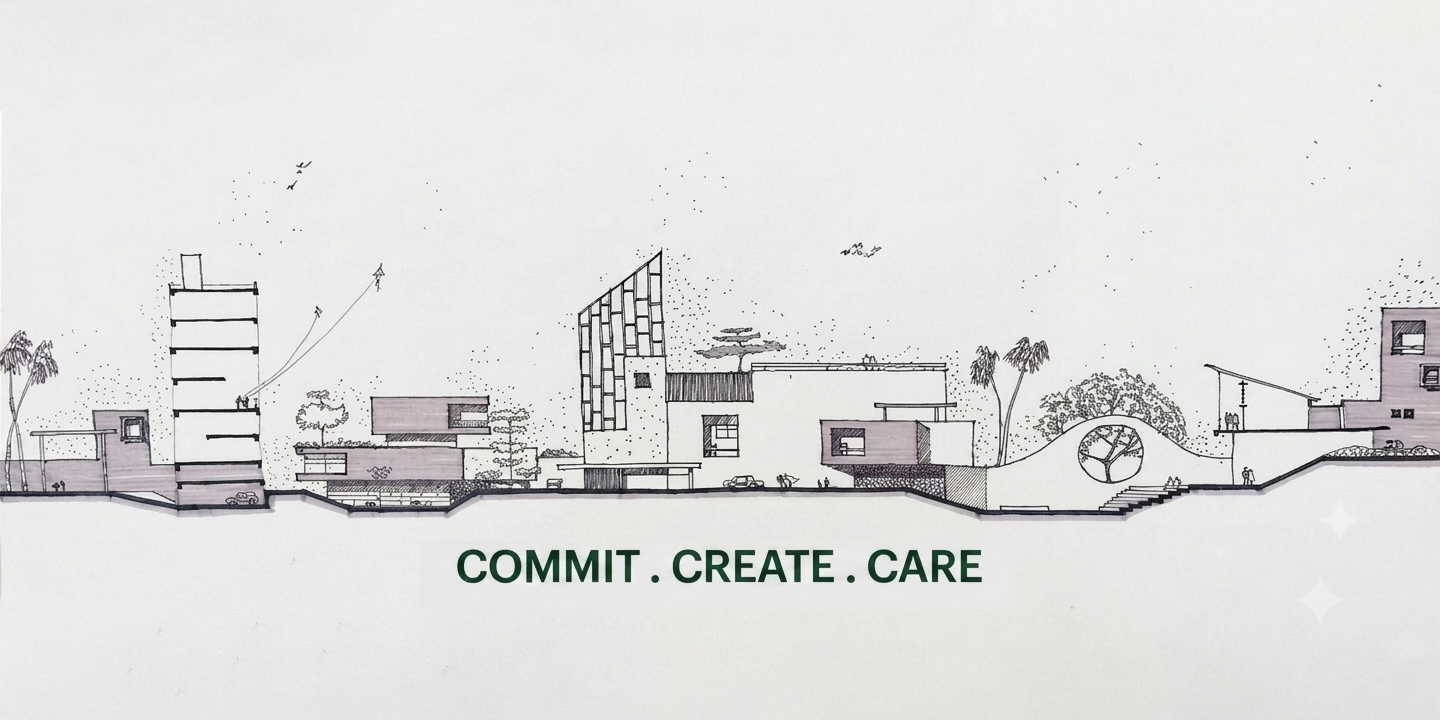
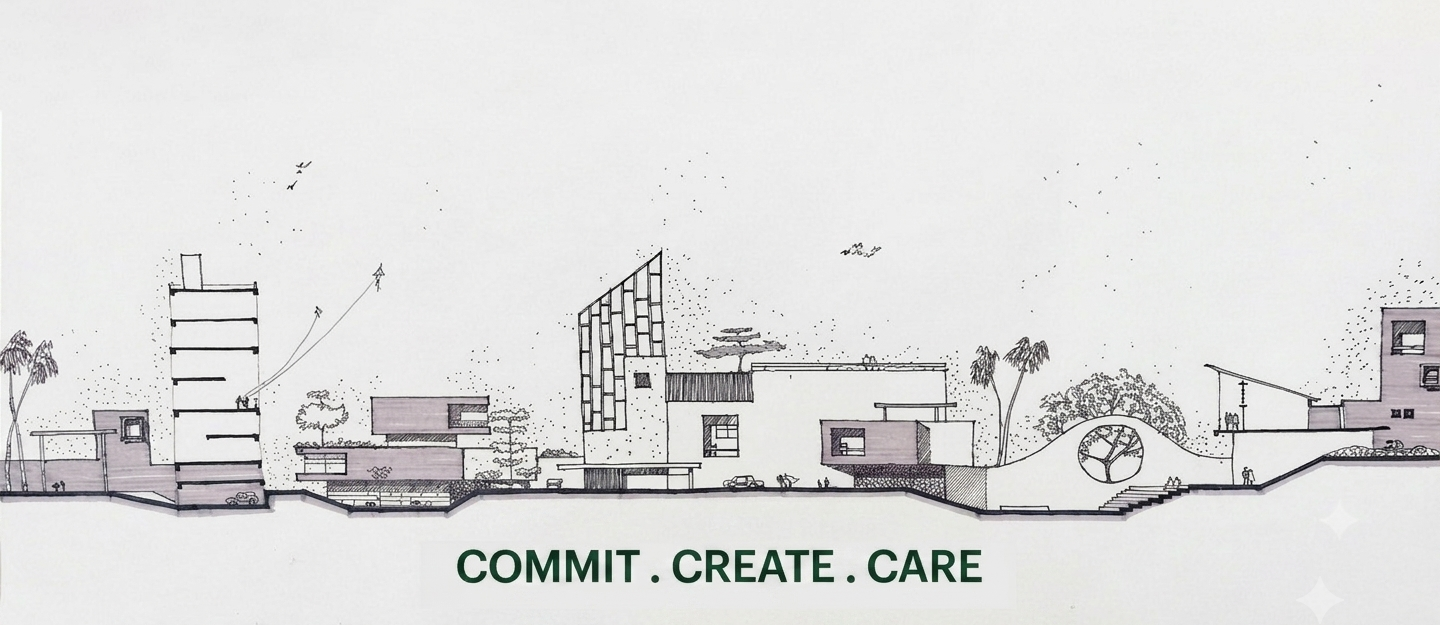
updte the code

diff --git a/src/sections/Hero.tsx b/src/sections/Hero.tsx
@@ -6,9 +6,9 @@ export default function Hero() {
   return (
     <section className="relative w-full h-screen overflow-hidden bg-[#F5F7E3] select-none">
       {/* Floating Navigation Bar (z-40) */}
-      <div className="absolute bottom-4 sm:bottom-6 left-0 w-full z-40">
-        <FloatingNavBar />
-      </div>
+      <div className="absolute -bottom-8 left-0 w-full z-40">
+  <FloatingNavBar />
+</div>
 
       {/* CSS style block for premium shadows to enhance text legibility */}
       <style>{`
@@ -20,13 +20,13 @@ export default function Hero() {
       `}</style>
 
       {/* Rule 1: Static Image Background with object-cover and centered object-position */}
-      <div className="absolute inset-0 w-full h-full overflow-hidden flex items-center justify-center z-10">
-        <img
-          src={cad}
-          alt="Estate Blueprint CAD"
-          className="absolute inset-0 w-full h-full object-cover object-center sm:object-center"
-        />
-      </div>
+      <div className="relative w-full h-full overflow-hidden">
+  <img
+    src={cad}
+    alt="Estate Blueprint CAD"
+    className="w-full h-full object-cover object-center"
+  />
+</div>
 
       {/* Rule 3: Scrolling mouse/chevron helper positioned responsively to avoid overlapping navigation on mobile */}
       <div className="absolute bottom-20 sm:bottom-10 right-4 sm:right-10 z-30 flex items-center gap-3 pointer-events-none">